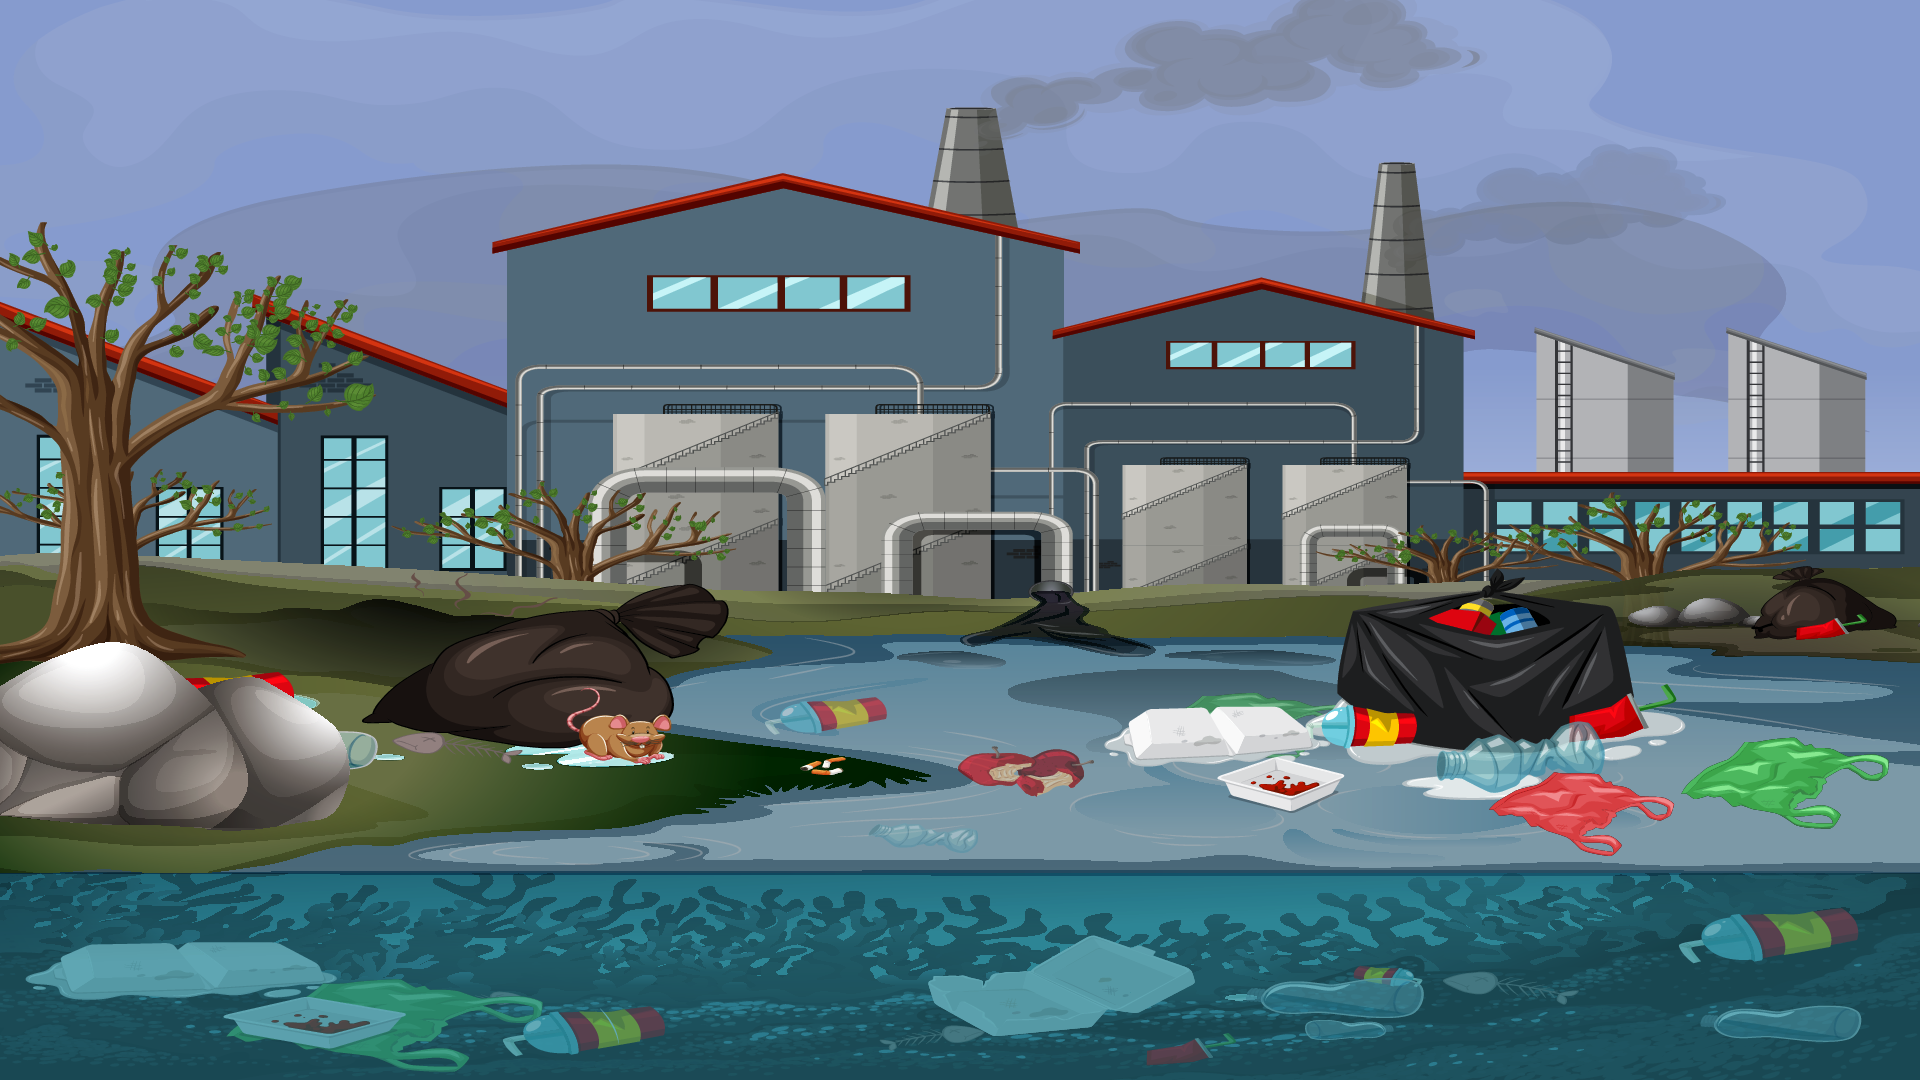
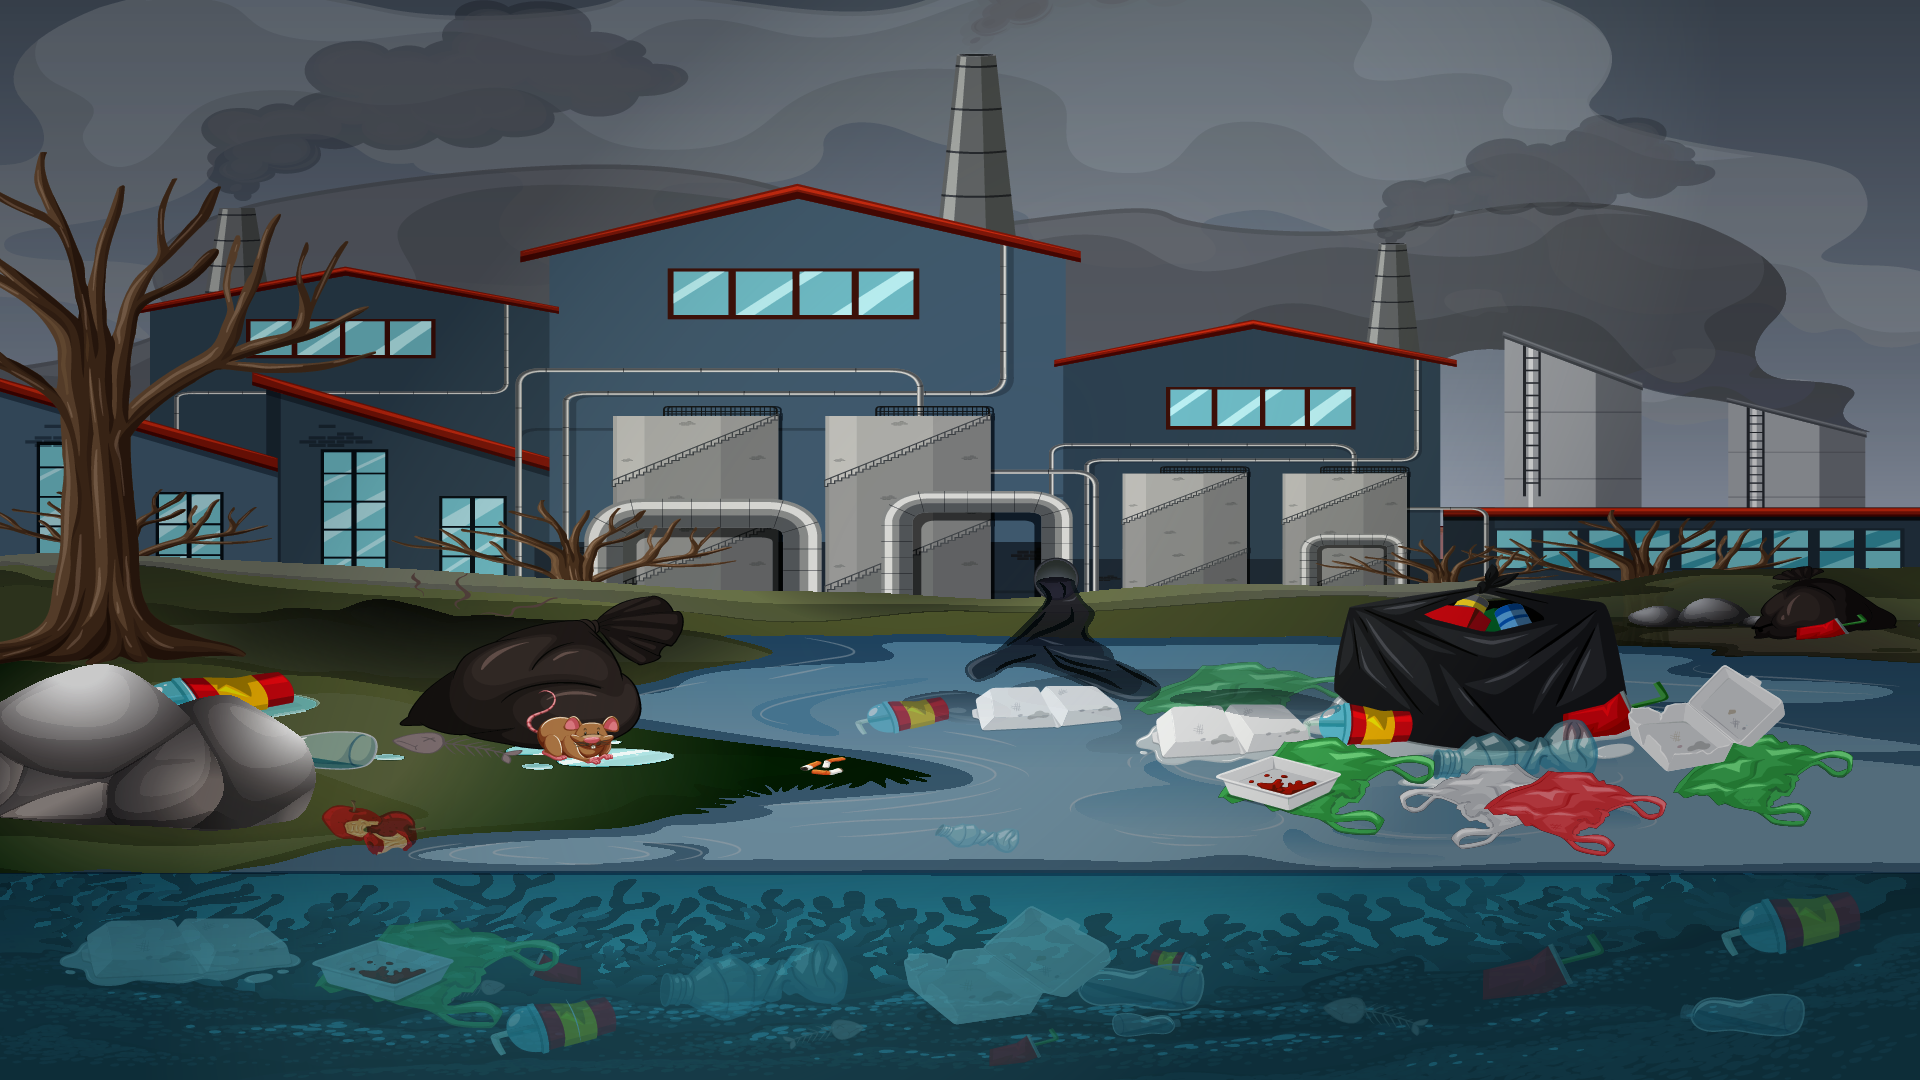
number of levels increased

diff --git a/src/main/java/ch/fhnw/team6/Main.java b/src/main/java/ch/fhnw/team6/Main.java
@@ -48,6 +48,8 @@ public class Main extends JPanel {
         animationPaths.put("2", new String[]{"src/main/resources/images/background/animation2/0.png"});
         animationPaths.put("3", new String[]{"src/main/resources/images/background/animation3/0.png"});
         animationPaths.put("4", new String[]{"src/main/resources/images/background/animation4/0.png"});
+        animationPaths.put("5", new String[]{"src/main/resources/images/background/animation5/0.png"});
+        animationPaths.put("6", new String[]{"src/main/resources/images/background/animation6/0.png"});
 
         backgroundPanel = new BackgroundPanel(animationPaths, 300, currentAnimationKey);
         // Set the background panel to use the full screen dimensions.
@@ -175,7 +177,7 @@ public class Main extends JPanel {
         } else if (input.equalsIgnoreCase("f")) {
             player.setLanguage(Language.FRENCH);
             translateCurrent();
-        } else if (!gameOver) {
+        } else if (!gameOver && level < 6) {
             try {
                 currentAnswer = inputHandler.answerQuestion(input);
                 showingExplanation = true;
@@ -198,9 +200,9 @@ public class Main extends JPanel {
 
     private void nextQuestion() {
         level++;
-        if (level > 3) { // After 3 levels, show final screen with animation 4.
-            setLevelAnimation("4");
-            currentQuestion = "🎉 Well done!";
+        if (level > 5) { // After 3 levels, show final screen with animation 4.
+            setLevelAnimation("6");
+            currentQuestion = "Well done!";
             currentAnswer = "Press Enter to play again.";
             gameFinished = true;
         } else {
@@ -224,7 +226,7 @@ public class Main extends JPanel {
      * Adjusts the font size of the label so that the text fits within a maximum width.
      */
     private void adjustFontSize(JLabel label) {
-        int maxWidth = screenSize.width - 120; // Account for horizontal padding.
+        int maxWidth = screenSize.width - 120;
         int baseSize = 26;
         Font font = label.getFont();
         int newSize = baseSize;
@@ -238,7 +240,6 @@ public class Main extends JPanel {
     }
 
     private void setLevelAnimation(String animationKey) {
-        // Trigger a smooth transition in the background panel.
         backgroundPanel.startTransitionTo(animationKey);
     }
 
@@ -250,16 +251,14 @@ public class Main extends JPanel {
 
     public static void main(String[] args) {
         SwingUtilities.invokeLater(() -> {
-            JFrame frame = new JFrame("Scanner Game with Animated Background");
+            JFrame frame = new JFrame("game");
             Main gamePanel = new Main();
             frame.setContentPane(gamePanel);
-            // Set the frame to full screen using full screen exclusive mode:
             frame.setUndecorated(true);
             frame.setExtendedState(JFrame.MAXIMIZED_BOTH);
             frame.setDefaultCloseOperation(JFrame.EXIT_ON_CLOSE);
             frame.setVisible(true);
 
-            // Ensure hidden input gets focus.
             for (Component comp : gamePanel.getComponents()) {
                 if (comp instanceof JTextField) {
                     comp.requestFocusInWindow();
